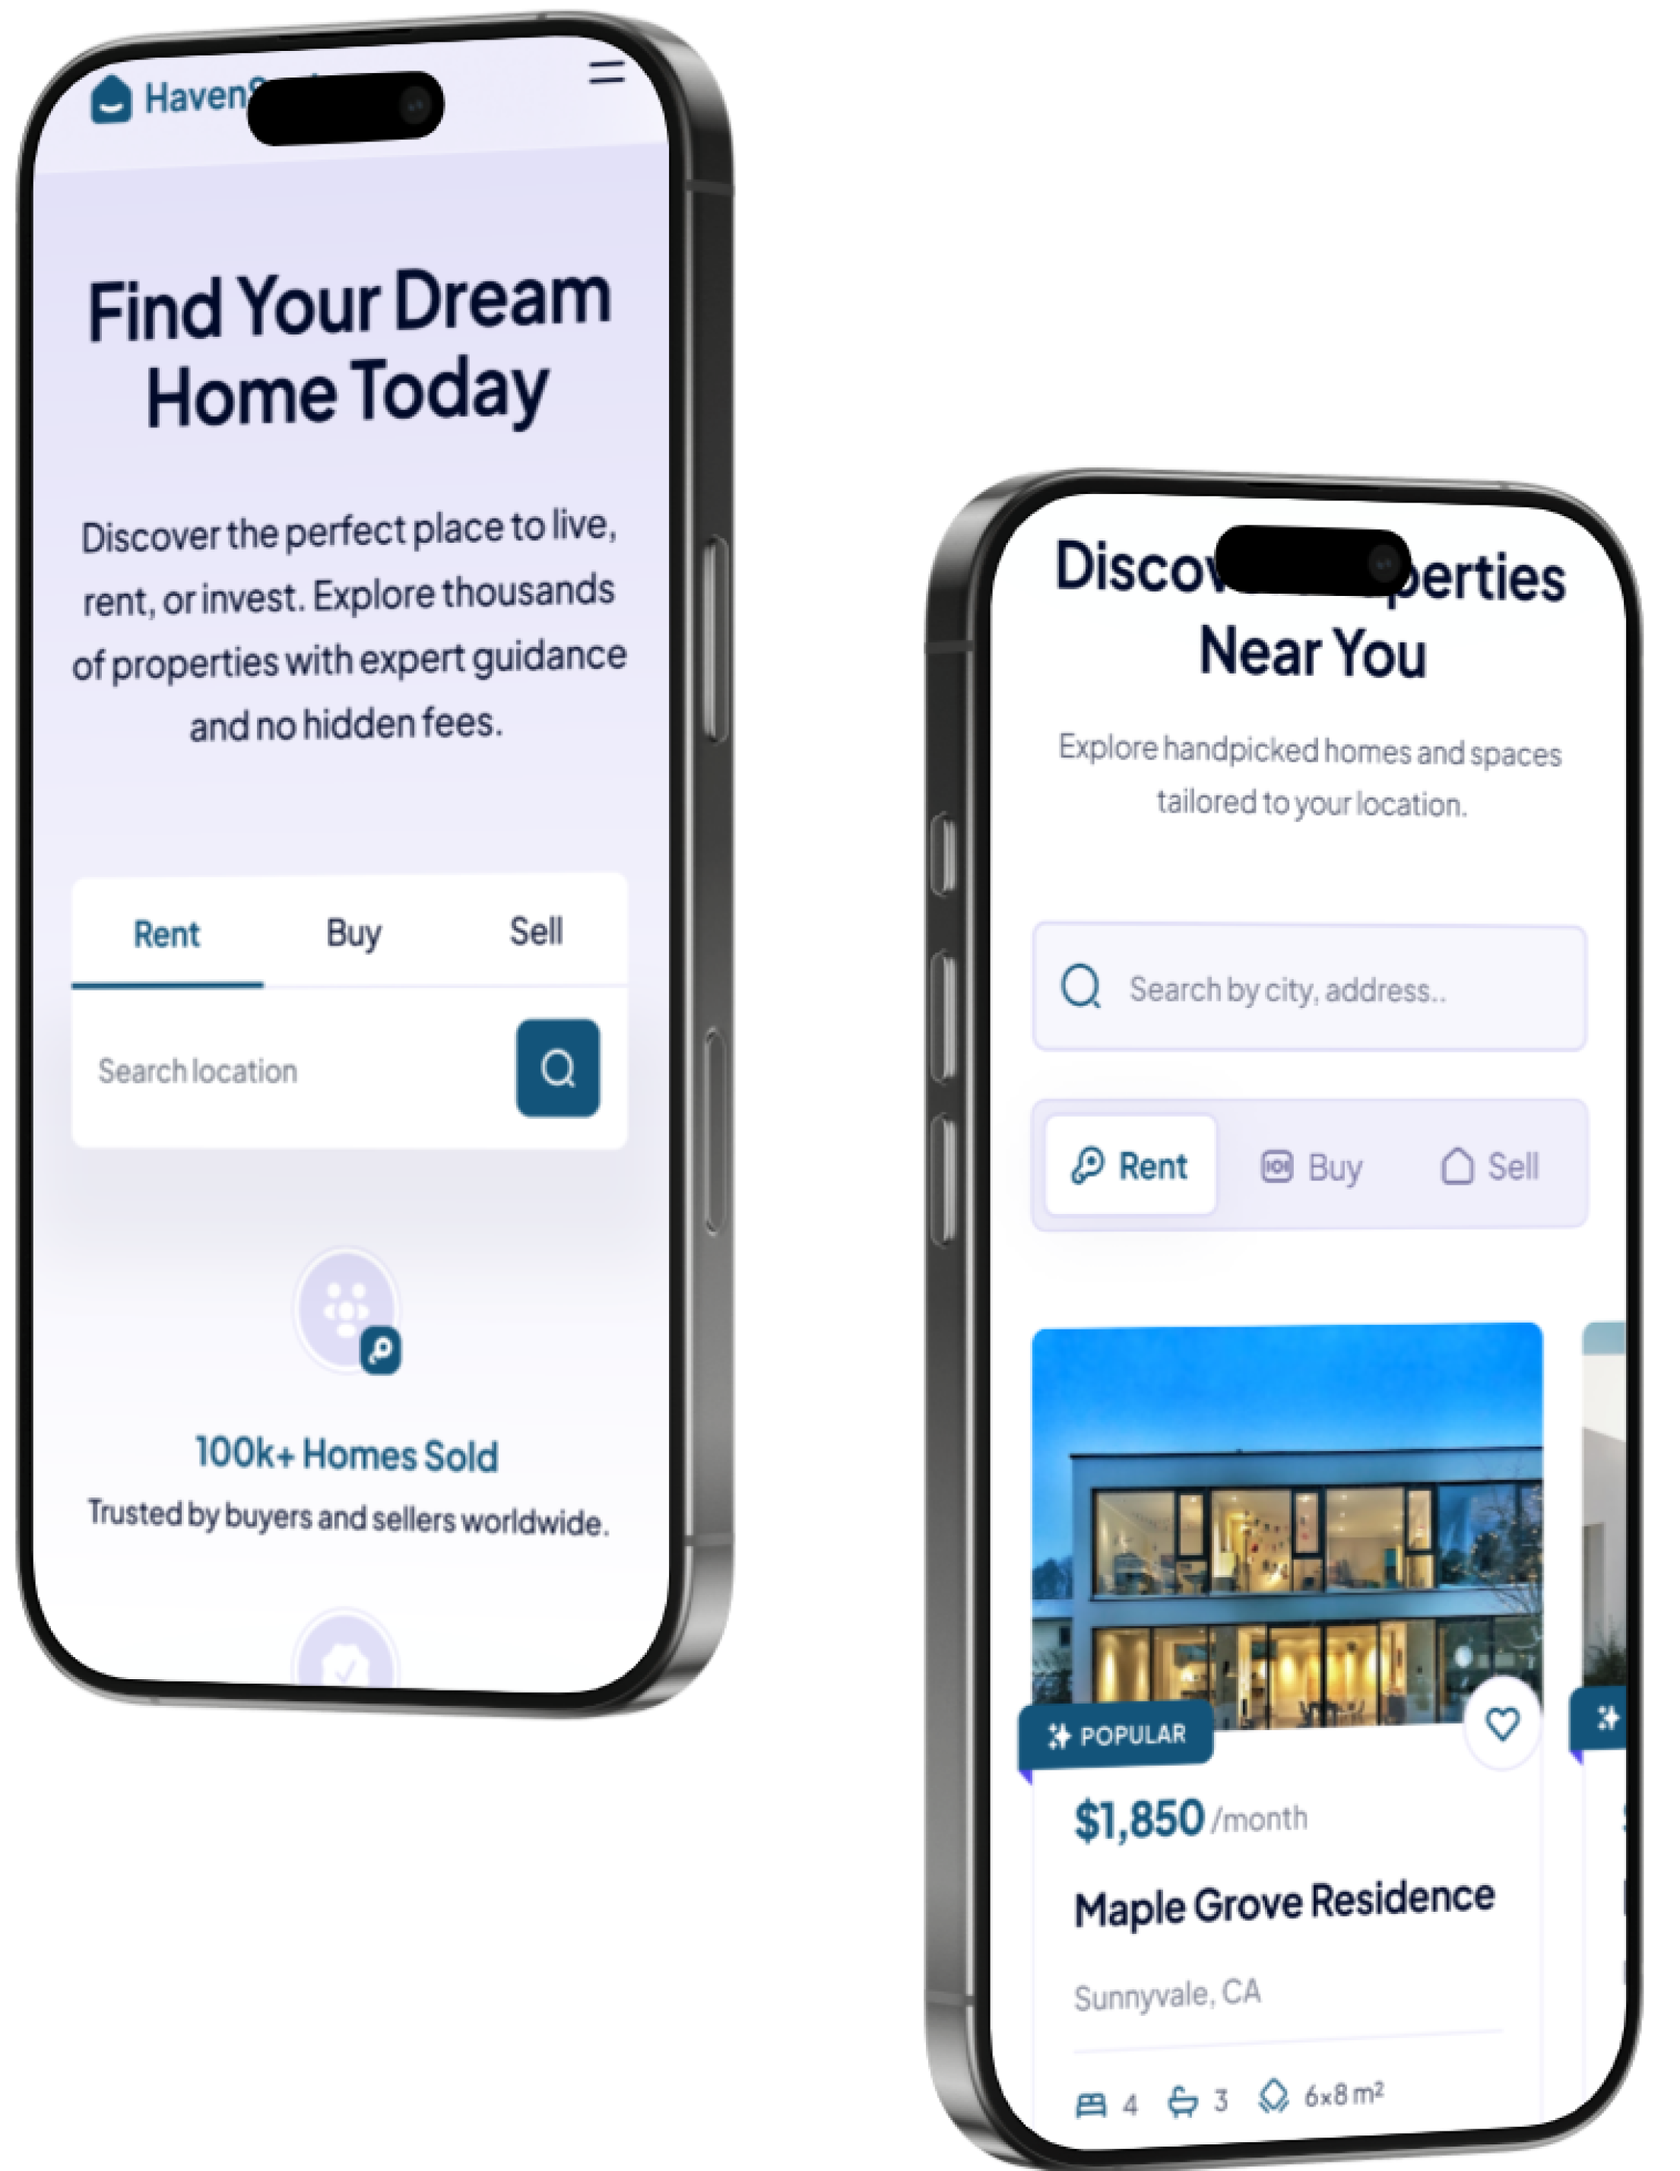
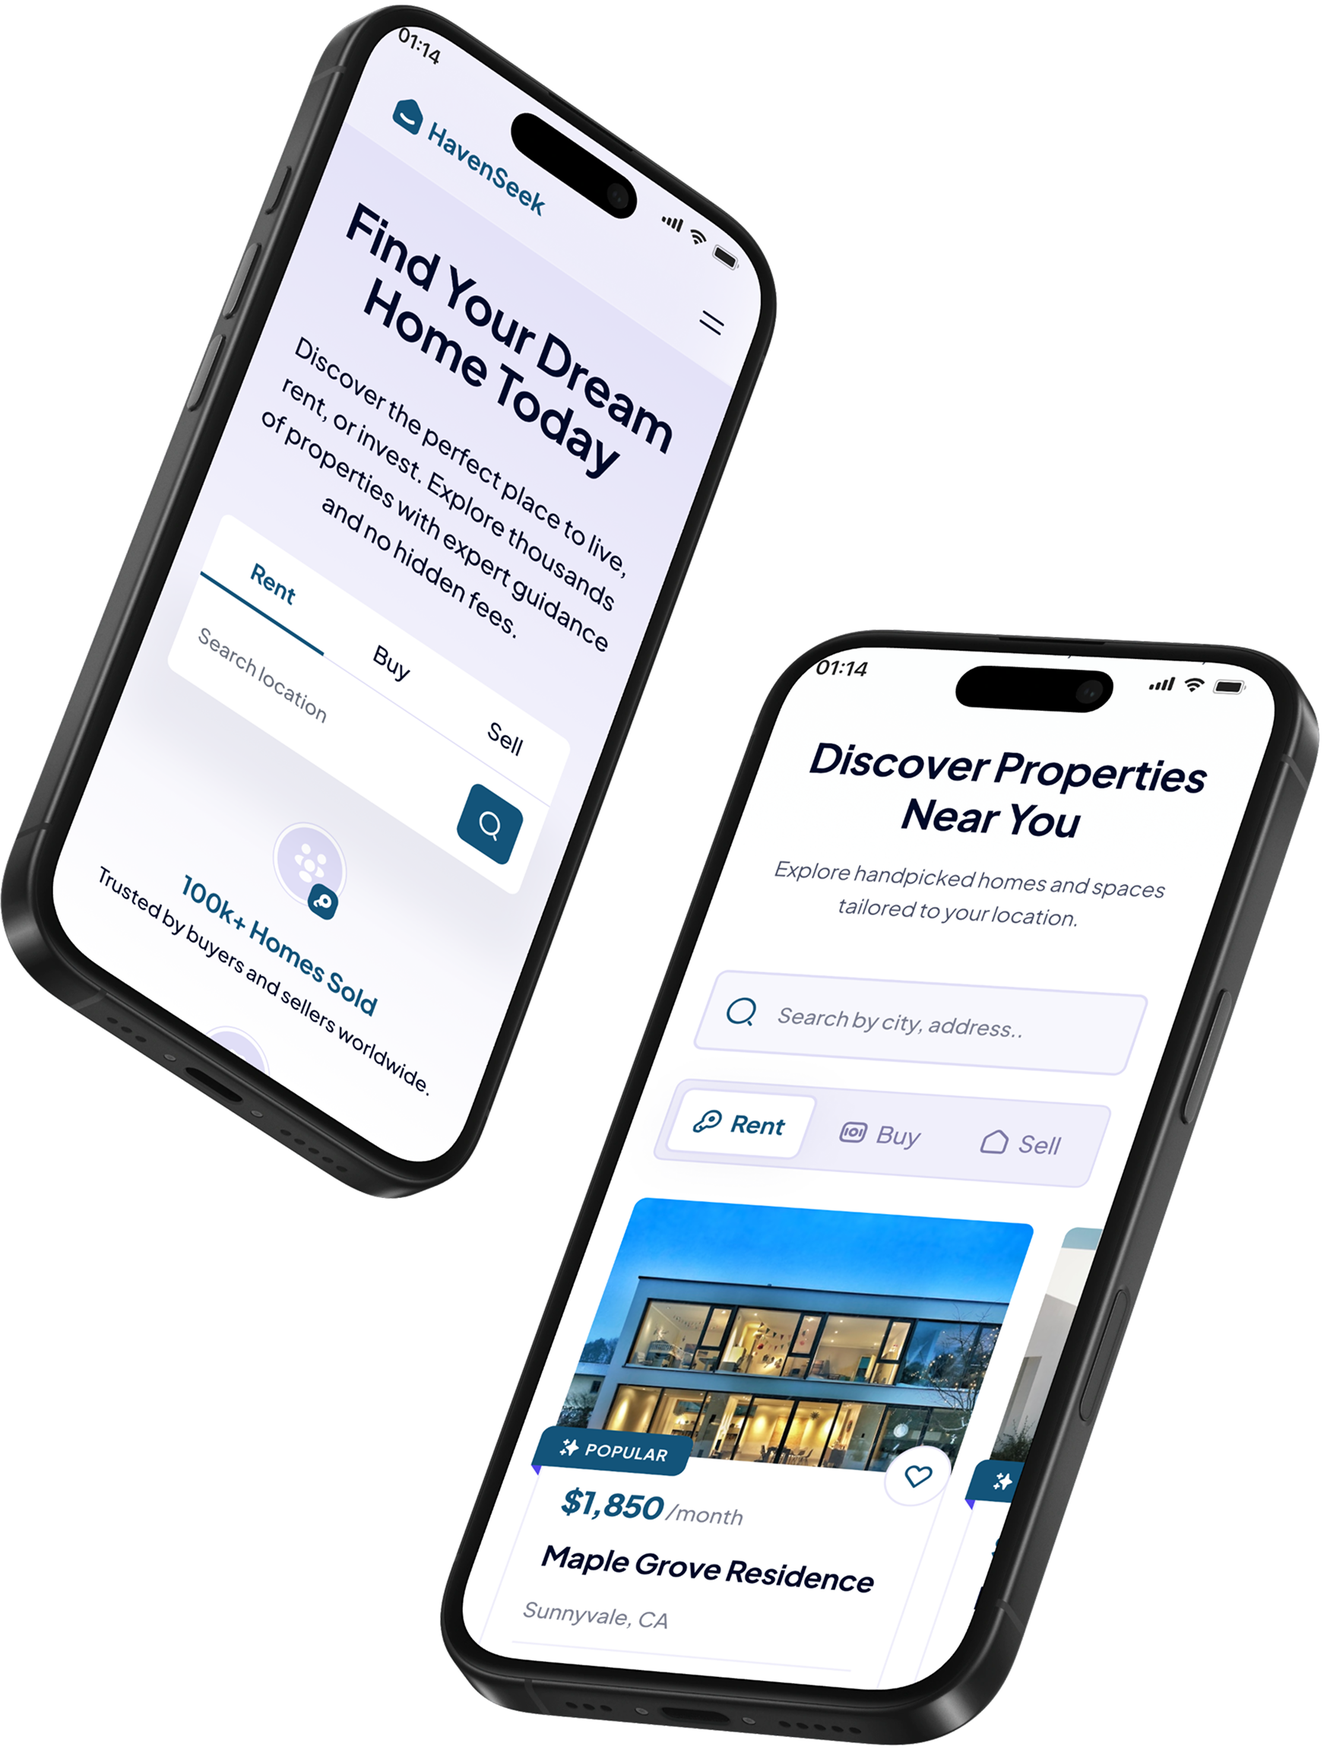
working

diff --git a/portfolio.html b/portfolio.html
@@ -81,7 +81,7 @@
 
                         <div class="ul-portfolio-frame">
                             <iframe loading="lazy"
-                                src="https://www.canva.com/design/DAG35hCoXiI/x9gG1KpkUDY9RRhVfQR3Pw/view?embed"
+                                src="https://www.canva.com/design/DAGDo9dWycc/KaA-m318kU4Ho4AGNIgEYg/view"
                                 allowfullscreen></iframe>
                         </div>
                     </div>
